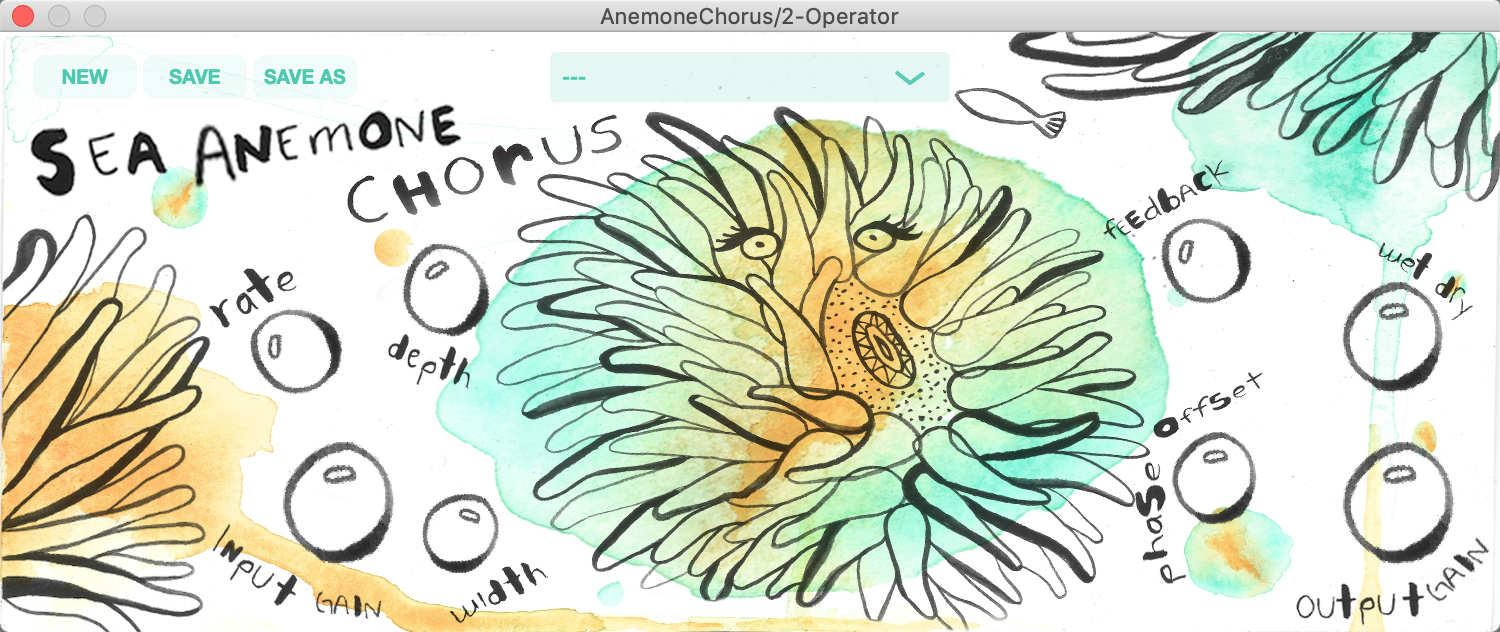
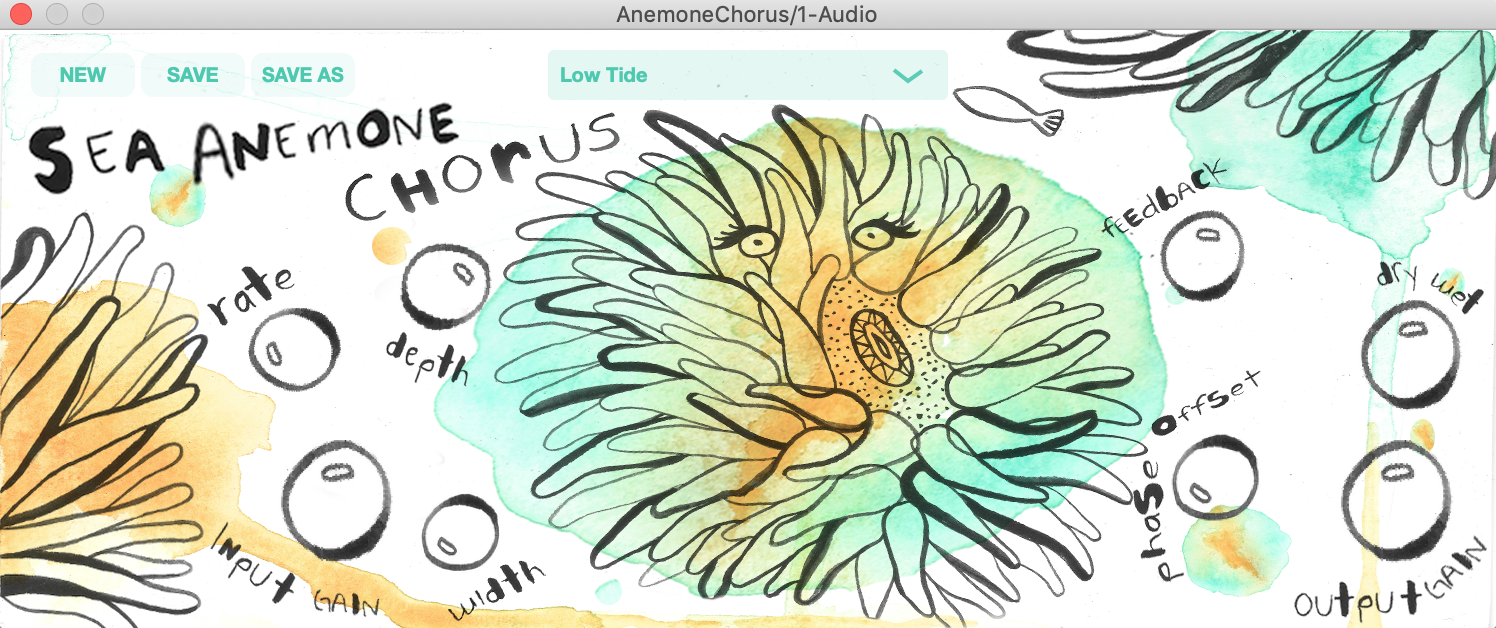
- final-finalize README - update GUI png to reflect dry wet swap

diff --git a/README.md b/README.md
@@ -5,11 +5,29 @@
 
 This is the first of several plug-ins in a my Ocean Plug-ins Suite.  The actual Chorus effect/DSP is pretty straight-forward, not reinventing the wheel here.  
 
-The GUI is an excercise in design.  I have produced music for several years now, and most plug-ins I am familiar with look like either:
+
+## Design
+The GUI is an excercise in music plug-in/application design.  I have produced music for several years now, and most plug-ins I am familiar with look like either:
 - an existing vintage/classic analog gear
 - a component in a spaceship's center console
 
 I chose to design the GUI with water colors and sea creatures to encourage users to approach using this Chorus with a sense of discovery and perhaps a new creative approach, sort of like a child with crayons and a blank piece of paper... 
 
-The actual water color painting was done by my good friend, you can find her art at @peacespells on IG.
+My Ocean Plug-Ins Suite will pair one audio effect with a corresponding animal.  For Chorus, I chose the Sea Anemone because it ebbs and flows with tide, and gives you a little electric sting if you accidently touch it.
 
+
+## Art Work
+The actual water color painting and lettering was done by my good friend, you can find her art at @peacespells on IG.  I handled the layout in Photoshop, and generated the knobs assets with a script from one of my [other repos](https://github.com/walkerdavis/producerpy) which contains music production and programming scripts.
+
+## Code
+This plug-in was built using C++, the JUCE Framework (5.4.3), and after completing Output's plug-in [development course](https://www.kadenze.com/programs/output-teaches-creating-audio-plugins-with-c-and-juce) on the Kadenze platform.  I highly recommend it if you are interested in building plug-ins.
+
+## Demo
+You can view the youtube demo [here](https://www.youtube.com/watch?v=-dZqQYZgTmo).  My good friend Jesse Green of [BeethovenBoyProductions](https://www.youtube.com/beethovenboyproductions) lent me some really wavy guitar passages to bring the Anemone Chorus to life.
+
+## Using the Plug-In
+If you would like to use this plug-in without building it yourself, you can simply drag the AnemoneChorus.vst3 to its corresponding directory on your computer.  
+
+I really enjoyed putting this together.  Additional and improved functionality on the way!  Feel free to reach out with any feedback(no pun intended) and/or thoughts!
+
+-Walker
